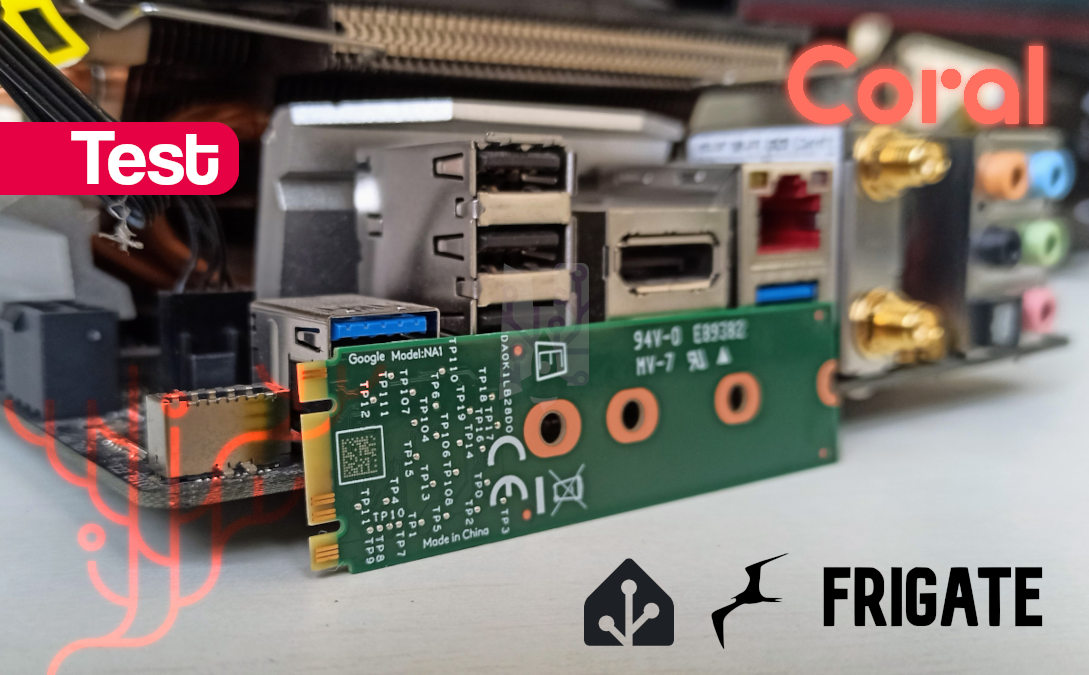
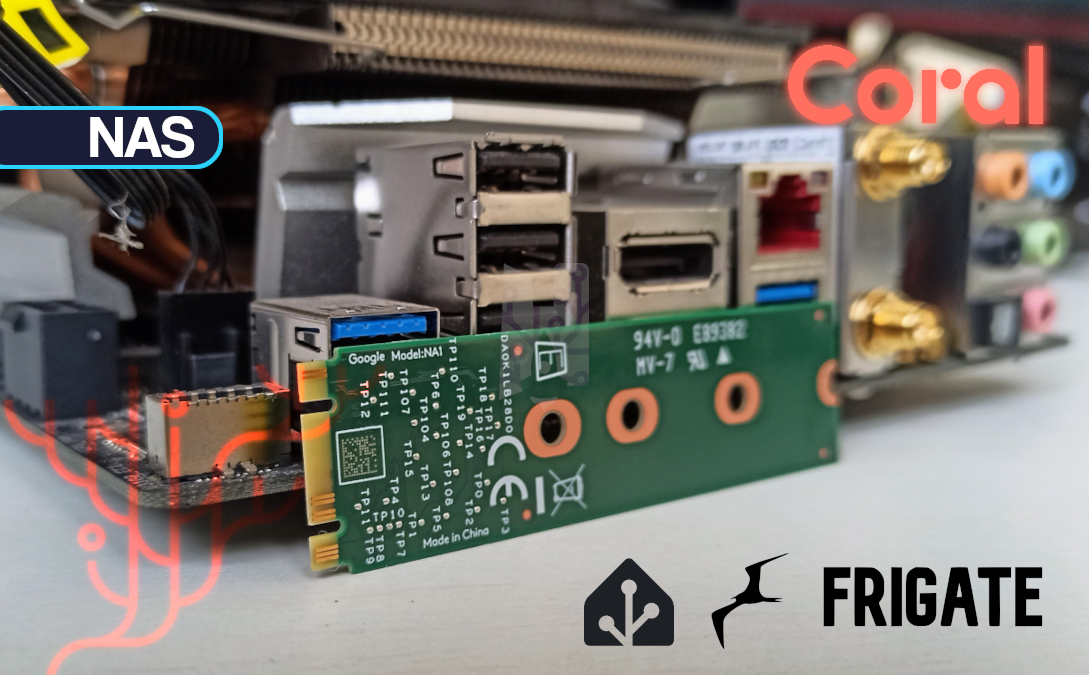
update post 107

Changed region(s): [[0.0, 0.1556, 0.2185, 0.3111]]

diff --git a/_posts/fr/2024-01-31-google-coral-mon-ami.md b/_posts/fr/2024-01-31-google-coral-mon-ami.md
@@ -1,13 +1,13 @@
 ---
 guid: 107
-title: ""
-description: ""
-ref: ""
+title: "Google Coral AI et Frigate"
+description: "Sur mon NAS privé j'utilise comme NVR frigate, et il est fortement recommandé d'utiliser Google Coral AI, comment agit ce composant sur la puissance du NVR"
+ref: "Google Coral AI"
 layout: post
 author: Nico
 date: 2024-01-31 12:24
 last_modified_at: 
-categories: [Securite, Tests, Domotique]
+categories: [Securite, Domotique, Tests]
 tags: []
 image: 'test-google-coral-frigate-home-assistant-ai-fait-il-le-job.png'
 toc: true
@@ -21,7 +21,7 @@ sitemap:
   lastmod:  # date to end modification
 locale: fr_FR
 comments: true
-rating:  
+rating: 5.0
 sourcelink:
   - https://coral.ai/
   - https://coral.ai/docs/m2/get-started/#requirements
